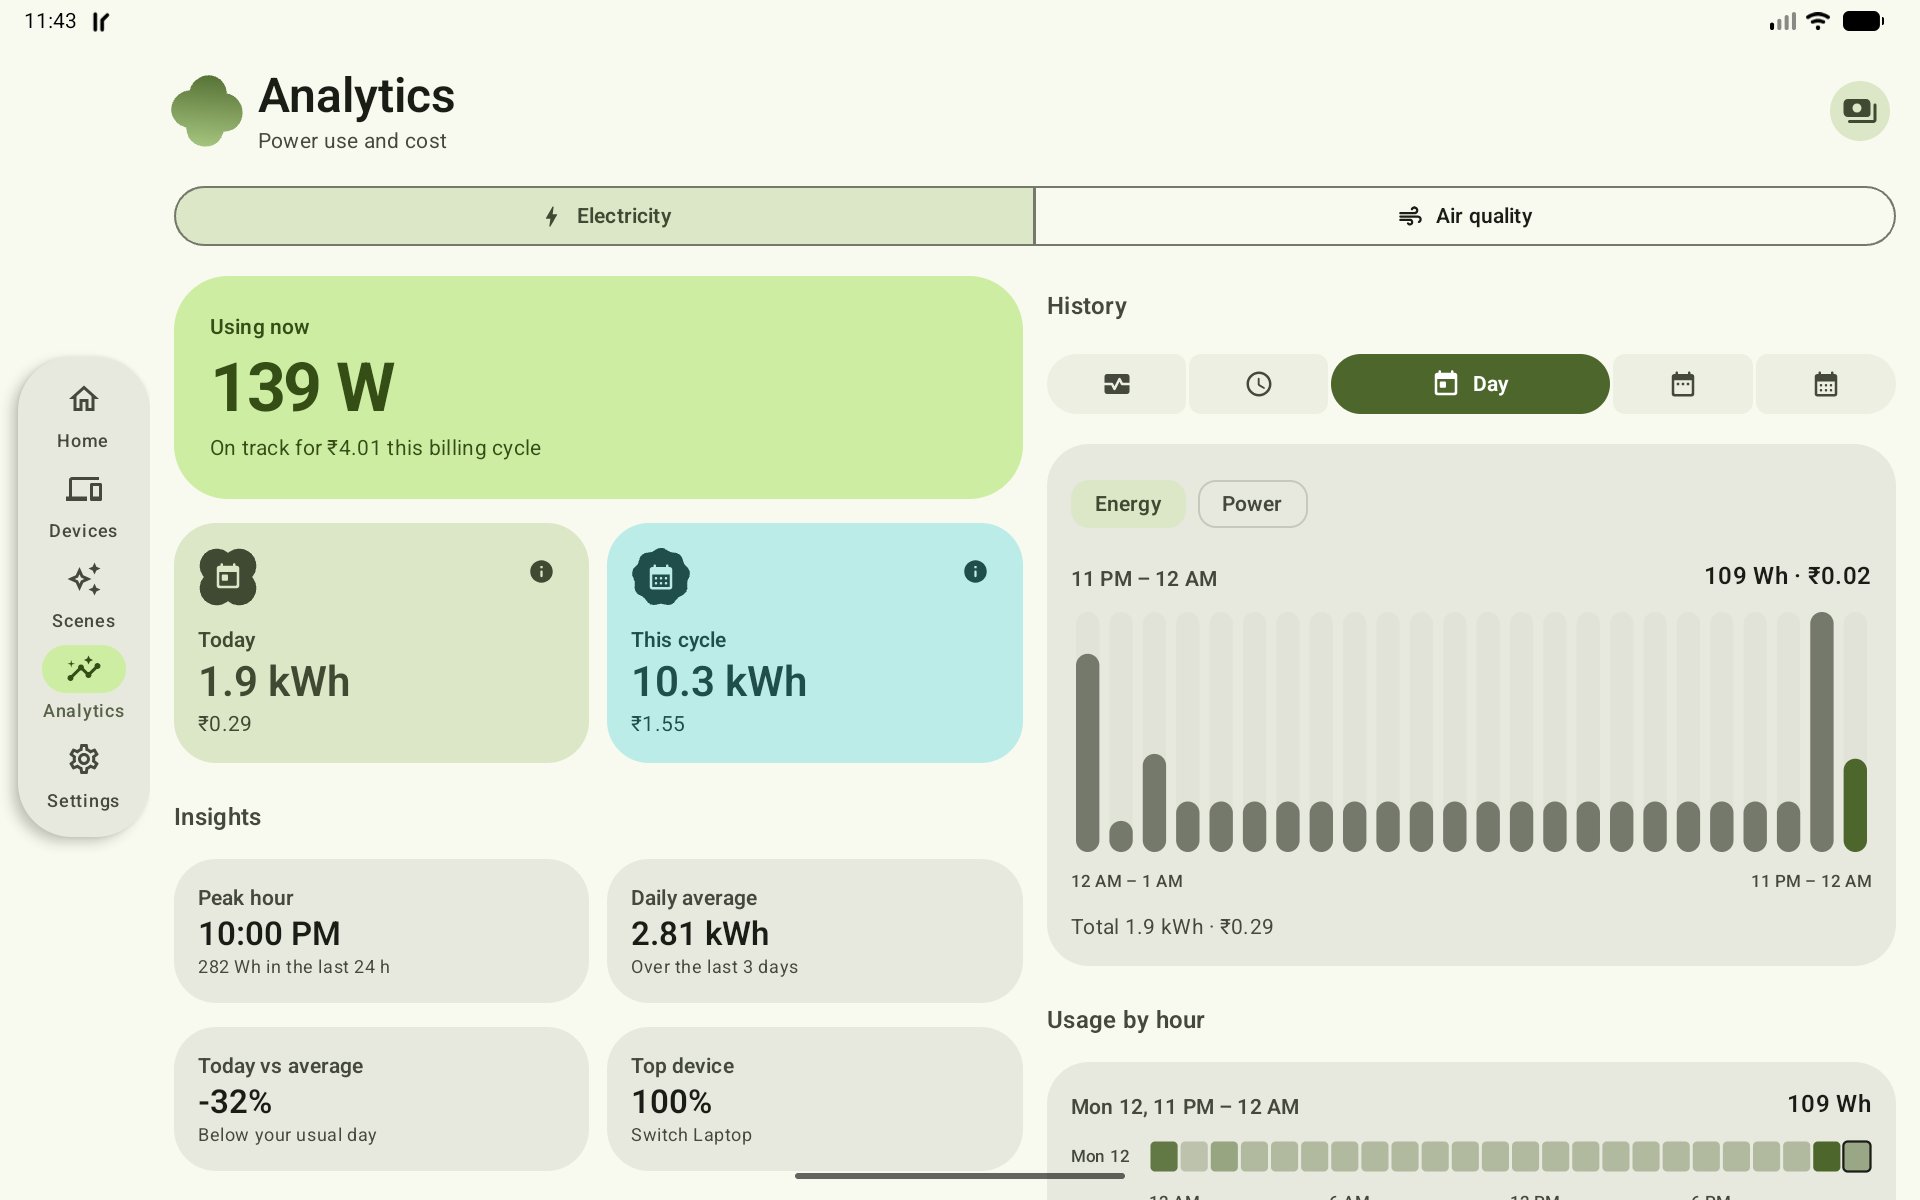
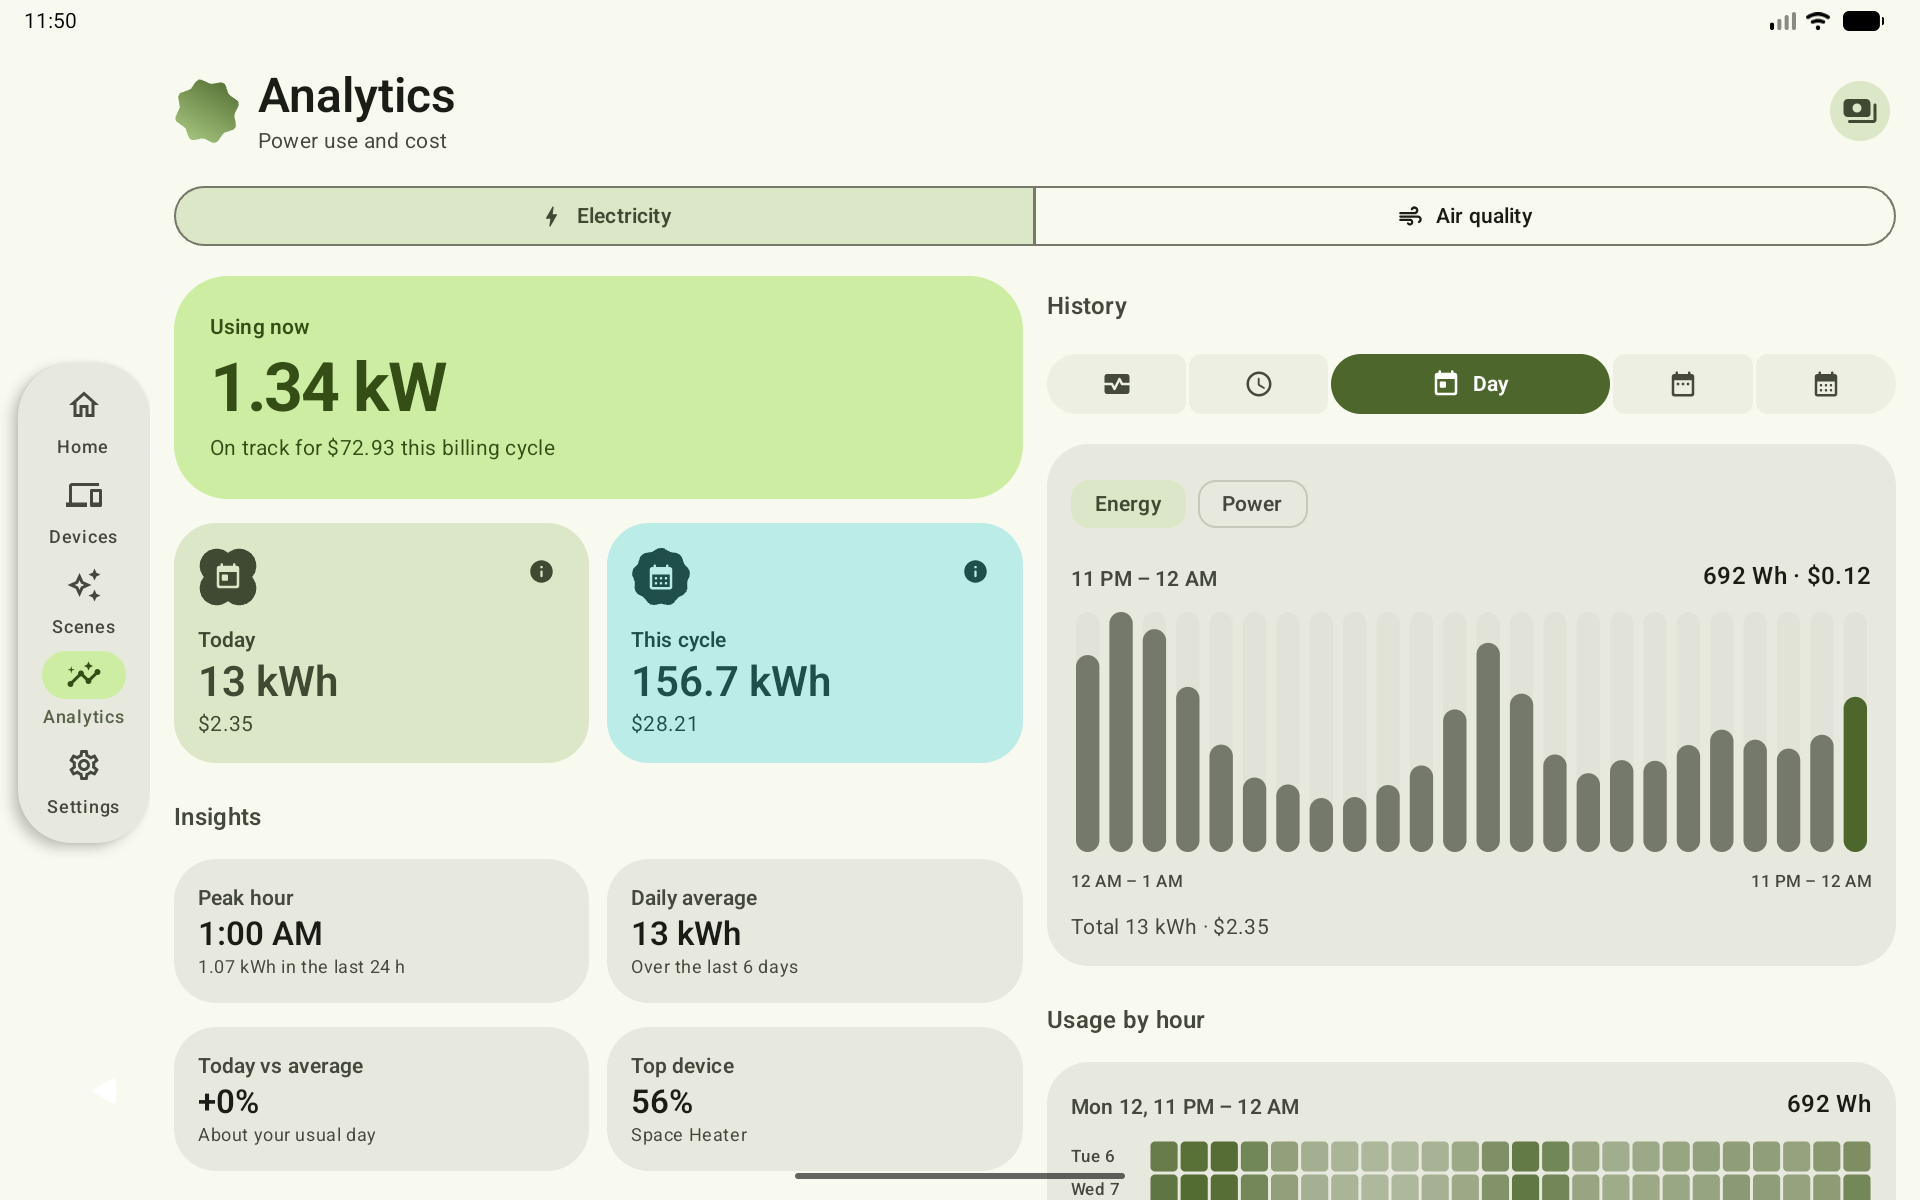
docs(Android) : Retake the tablet screenshots with the demo home and add Devices and Scenes

diff --git a/README.md b/README.md
@@ -214,6 +214,8 @@ database. The full set of diagrams, one per feature, is in
 <p>
   <img src="res/screenshots/android-tablet-home.png" width="49%" />
   <img src="res/screenshots/android-tablet-analytics.png" width="49%" />
+  <img src="res/screenshots/android-tablet-devices.png" width="49%" />
+  <img src="res/screenshots/android-tablet-scenes.png" width="49%" />
   <img src="res/screenshots/android-tablet-settings.png" width="49%" />
 </p>
 
